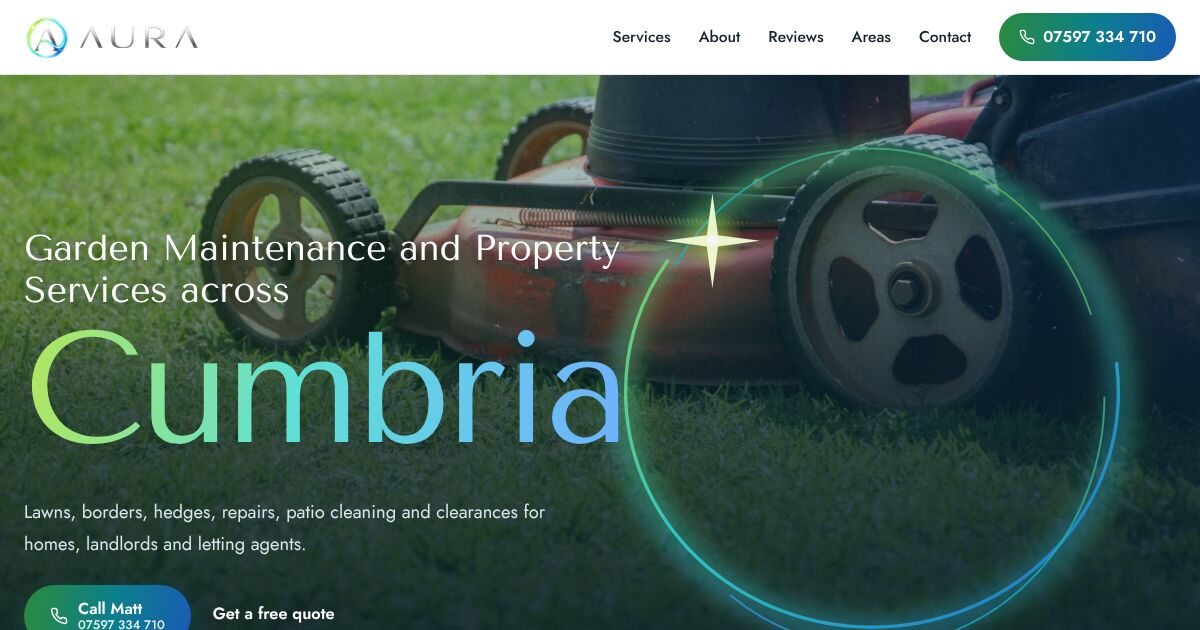
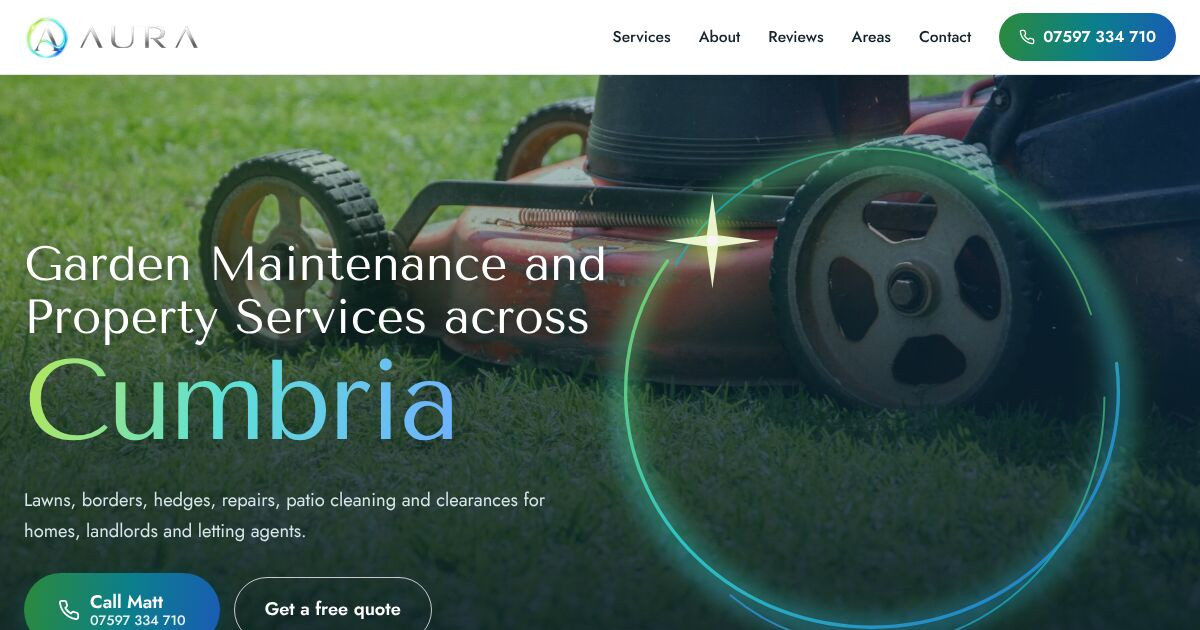
Aura Property & Garden Services B: larger hero headline, smaller Cumbria, larger call and quote buttons

Changed region(s): [[0.0, 0.3619, 0.5242, 0.7238], [0.0, 0.7841, 0.4625, 0.8746], [0.0, 0.9048, 0.3392, 1.0]]

diff --git a/aura-property-garden-services-b/index.html b/aura-property-garden-services-b/index.html
@@ -95,14 +95,17 @@ h3{font-size:1.28rem}
 .hb-ring svg{filter:drop-shadow(0 0 18px rgba(124,194,66,.35))}
 .hb-copy{position:relative;z-index:3;padding-top:120px;padding-bottom:48px}
 .hb h1{color:#fff;font-weight:400;line-height:1;margin-bottom:22px}
-.hb-small{display:block;font-size:clamp(1.6rem,3vw,2.6rem);line-height:1.15;max-width:17em;text-shadow:0 2px 18px rgba(10,30,37,.6);letter-spacing:0;margin-bottom:4px}
-.hb-big{display:block;font-size:clamp(5rem,min(15vw,25vh),13.5rem);letter-spacing:-.03em;line-height:.95;background:linear-gradient(100deg,#b4e65a 0%,#5fe0d6 45%,#6fb0ff 100%);-webkit-background-clip:text;background-clip:text;color:transparent;padding-bottom:.06em}
+.hb-small{display:block;font-size:clamp(2.1rem,4vw,3.7rem);line-height:1.1;max-width:15em;text-shadow:0 2px 18px rgba(10,30,37,.6);letter-spacing:0;margin-bottom:4px}
+.hb-big{display:block;font-size:clamp(4.2rem,min(11vw,18vh),10rem);letter-spacing:-.03em;line-height:.95;background:linear-gradient(100deg,#b4e65a 0%,#5fe0d6 45%,#6fb0ff 100%);-webkit-background-clip:text;background-clip:text;color:transparent;padding-bottom:.06em}
 .hb .w{display:inline-block;opacity:0;transform:translateY(.5em)}
 .hb.go-in .w{animation:rise .7s cubic-bezier(.2,.8,.3,1) forwards}
 .hb-line{color:#d7e6ea;font-size:1.15rem;max-width:30em;margin-bottom:26px}
-.hb-cta{display:flex;align-items:center;gap:22px;flex-wrap:wrap}
-.hb-cta .btn{padding:14px 26px}
-.hb-quote{color:#fff;font-weight:600;border-bottom:2px solid rgba(124,194,66,.8);padding-bottom:2px}
+.hb-cta{display:flex;align-items:center;gap:14px;flex-wrap:wrap}
+.hb-cta .btn{padding:18px 34px;font-size:1.14rem;min-height:66px}
+.hb-cta .btn svg{width:22px;height:22px}
+.hb-cta .btn small{font-size:.86rem}
+.hb-quote{color:#fff;font-weight:600;font-size:1.14rem;border:1.5px solid rgba(255,255,255,.75);border-radius:999px;padding:0 30px;min-height:66px;display:inline-flex;align-items:center;transition:background .2s,color .2s}
+.hb-quote:hover{background:#fff;color:var(--deep)}
 .js .hb-line,.js .hb-cta{opacity:0;transform:translateY(14px)}
 .hb.go-in .hb-line{animation:rise .6s 1s forwards}
 .hb.go-in .hb-cta{animation:rise .6s 1.15s forwards}
@@ -281,10 +284,12 @@ html:not(.js) .reveal{opacity:1;transform:none}
   .hb{min-height:calc(100svh - 66px)}
   .hb-ring{width:118vw;right:-34vw;top:-6vw;opacity:.9}
   .hb-copy{padding-top:90px;padding-bottom:34px}
-  .hb-small{font-size:1.55rem;max-width:13em}
-  .hb-big{font-size:23vw}
+  .hb-small{font-size:2.05rem;max-width:12em}
+  .hb-big{font-size:17.5vw}
   .hb-line{font-size:1.02rem;margin-bottom:22px}
-  .hb-cta .btn{padding:12px 22px}
+  .hb-cta{flex-wrap:nowrap;gap:10px}
+  .hb-cta .btn{padding:14px 18px;font-size:1.08rem;min-height:62px;flex:1 1 0}
+  .hb-quote{padding:0 16px;font-size:1.04rem;min-height:62px;flex:1 1 0;justify-content:center;text-align:center;line-height:1.2}
   .hedge{margin:-14px 0 30px}
   .hedge-steps{gap:14px;font-size:.72rem;letter-spacing:.12em}
   .stack{grid-template-columns:repeat(2,1fr);gap:12px}
